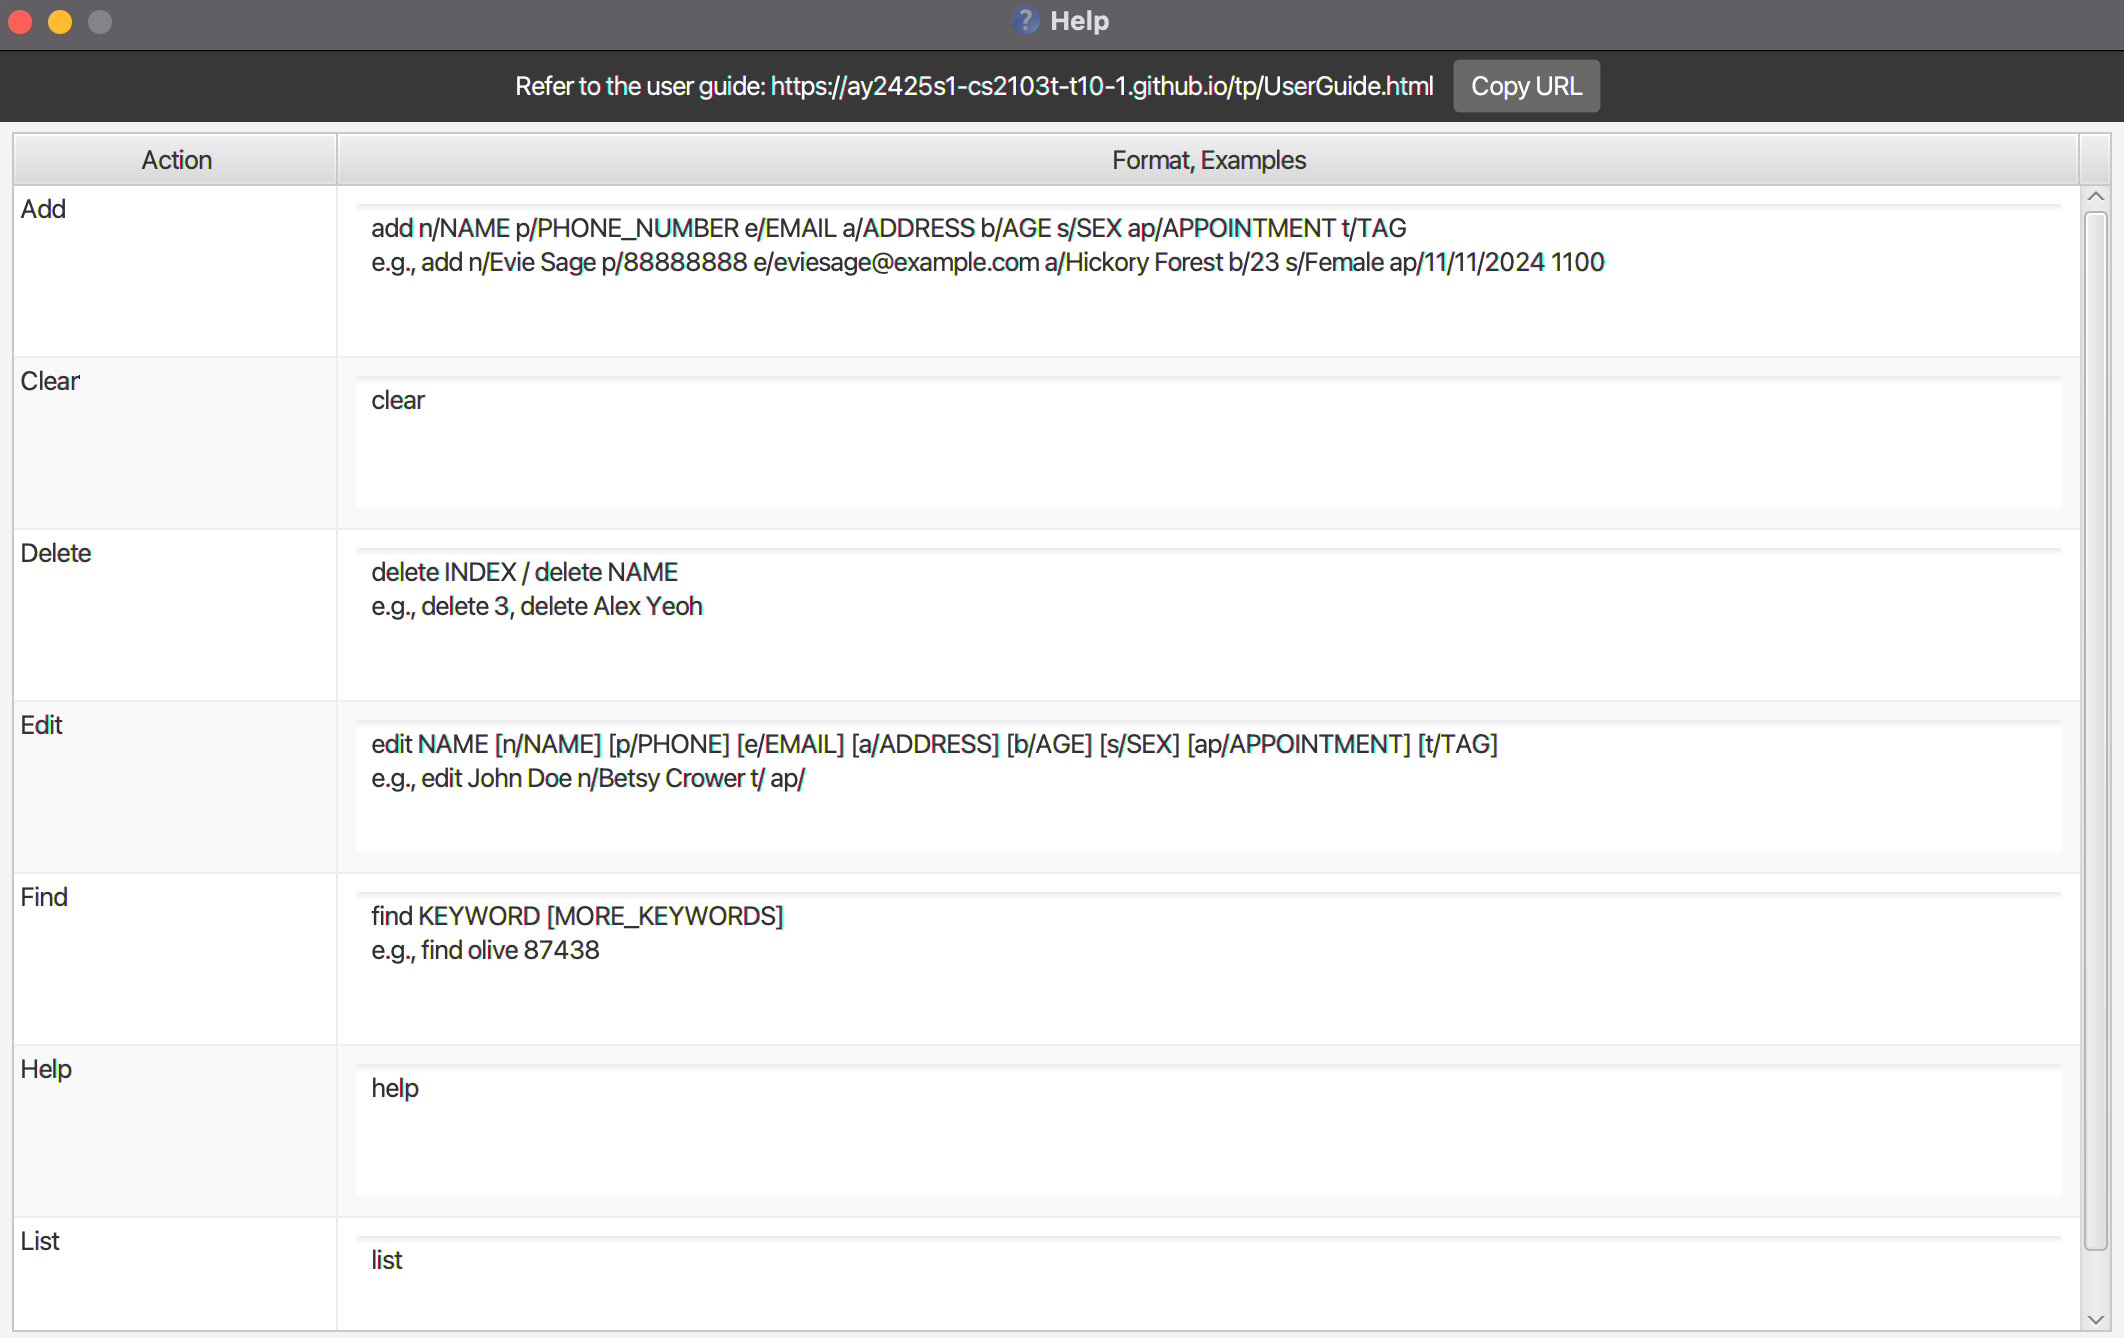
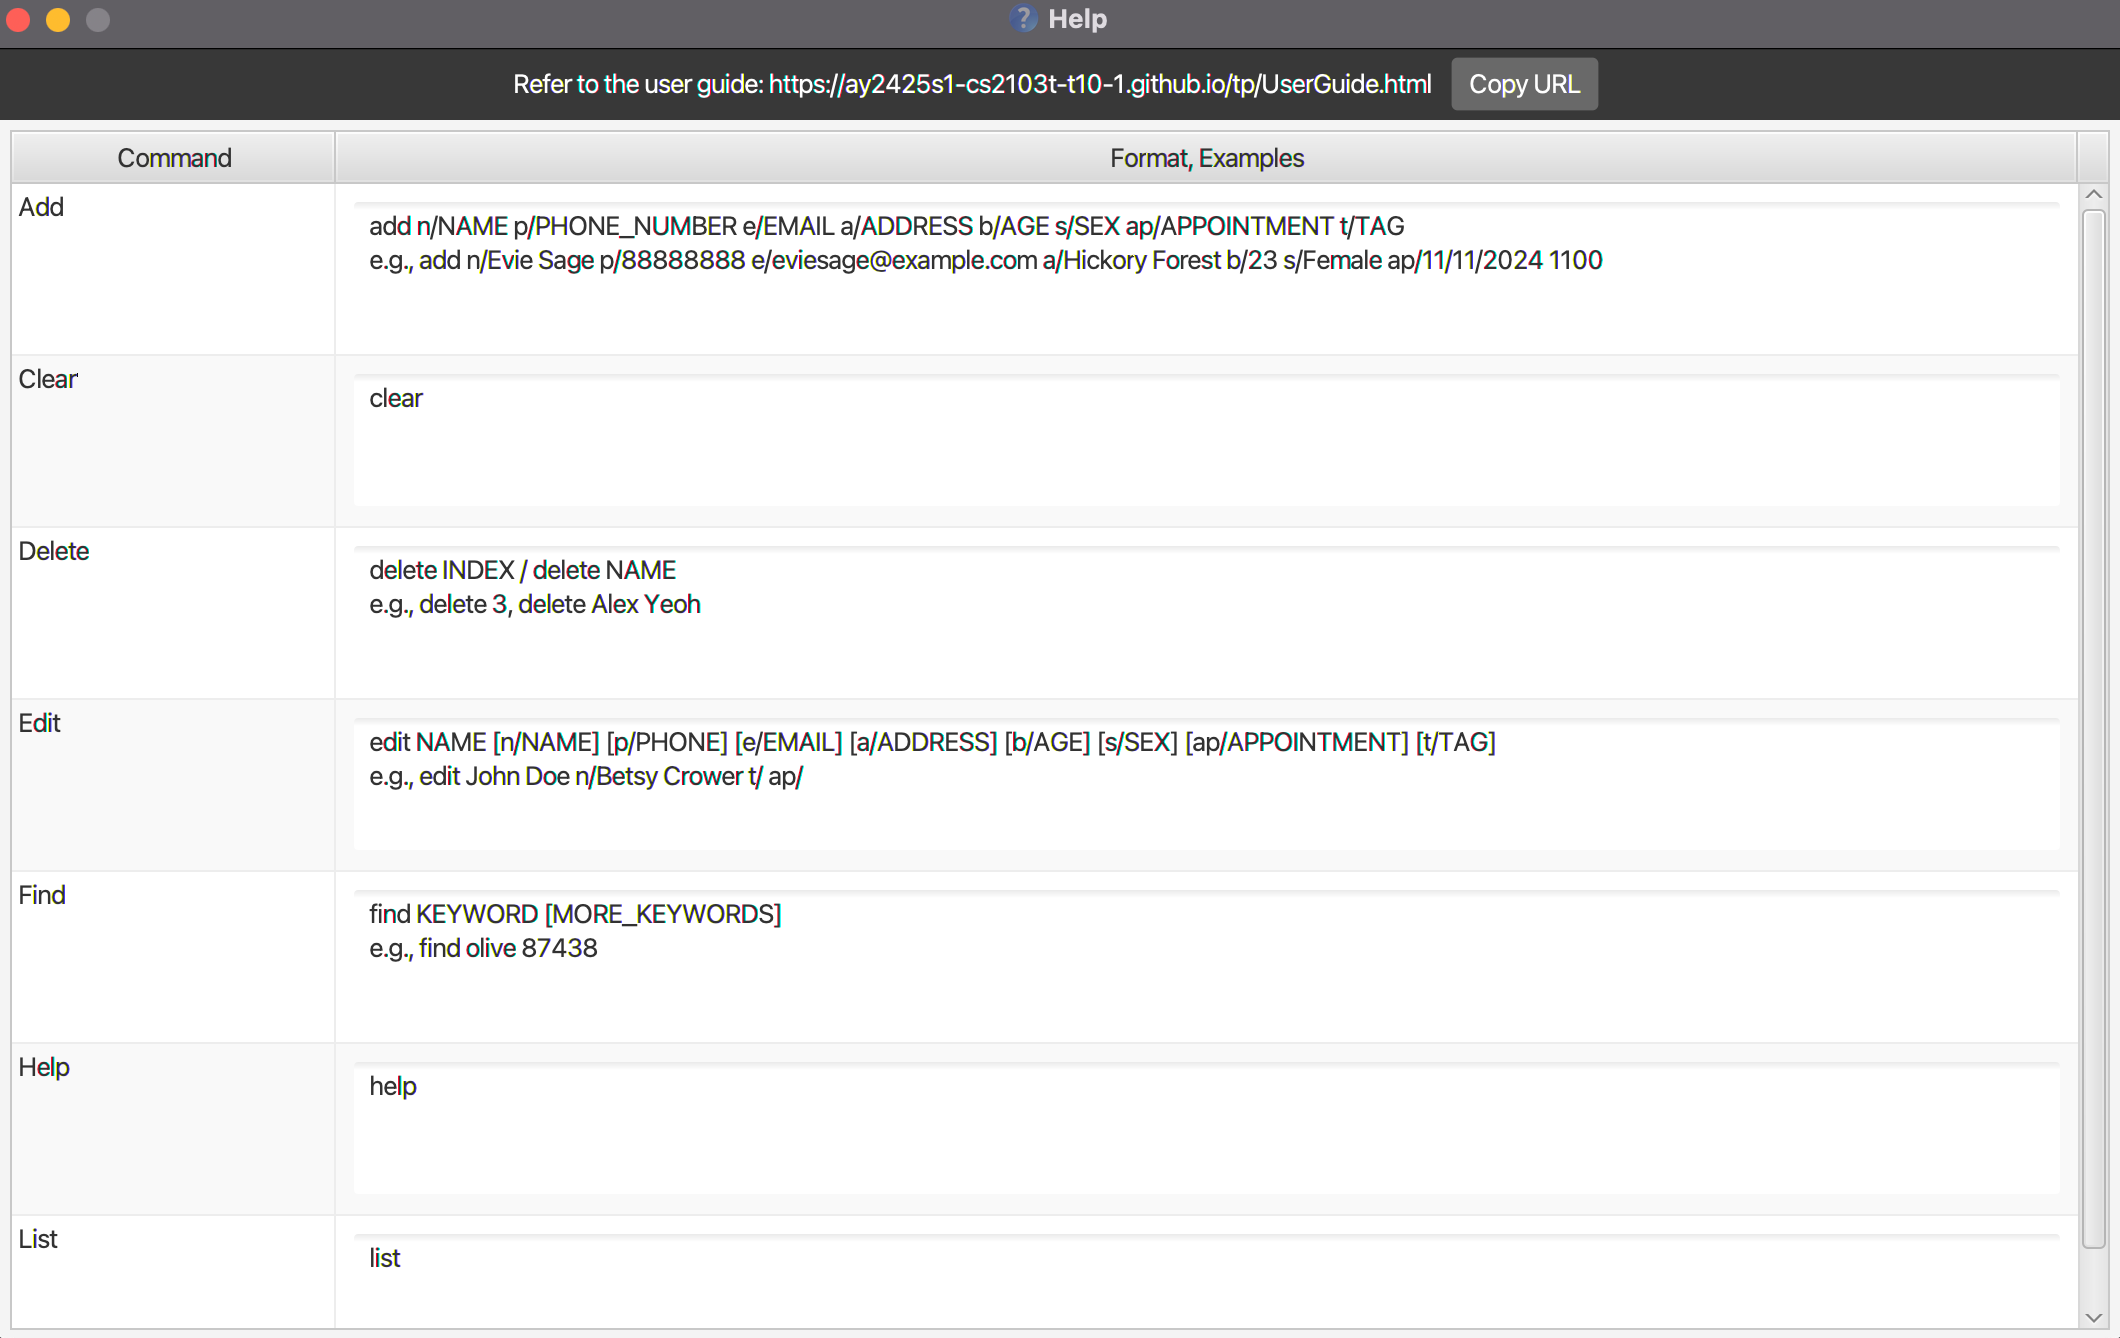
Update user guide
- Add descriptions for enhanced help feature.
- Change header of command summary table from action to command.
- Update screenshot of help window.

diff --git a/docs/UserGuide.md b/docs/UserGuide.md
@@ -72,11 +72,15 @@ Medicontact is a **desktop app for managing contacts, optimized for use via a  L
 
 ### Viewing help : `help`
 
-Shows a message explaning how to access the help page.
-
-![helpwindow.png](images%2Fhelpwindow.png)
+Shows you a help window with useful resources which includes:
+- A URL to the User Guide displayed at the top. You can copy the URL directly to your clipboard by clicking the “Copy URL” button.
+- A command summary table below the URL, displaying available commands, their formats, and examples.
+- You can copy the command format or example from the table and paste it into the command box.
+- You can click on the table headers to sort commands in ascending or descending order.
 
 Format: `help`
+
+![helpwindow.png](images%2Fhelpwindow.png)
 
 
 ### Adding a person: `add`
